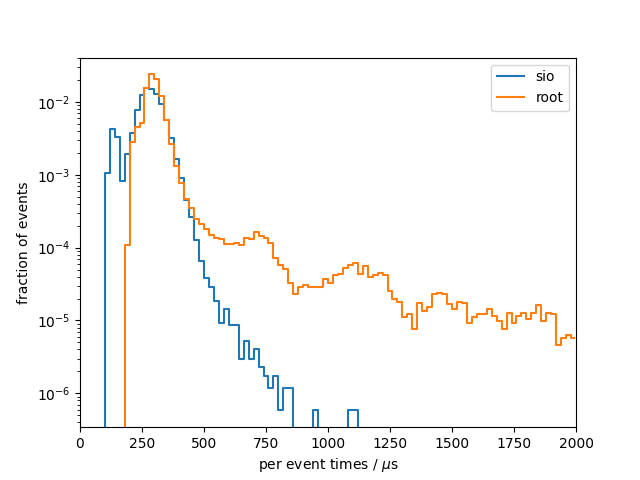
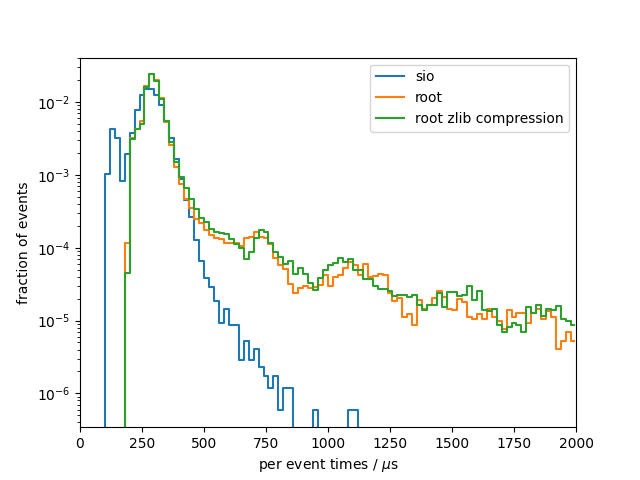
Add a third test case where ROOT uses the same compression

diff --git a/results/k4SimDelphes/run_benchmarks.py b/results/k4SimDelphes/run_benchmarks.py
@@ -92,13 +92,15 @@ def pythia(args):
 
     output_file_base = 'k4simdelphes_pythia_output'
     # prepare output directories for both cases
-    create_case_output_dirs(args.outdir, ['root', 'sio'])
+    # create_case_output_dirs(args.outdir, ['root', 'sio'])
+    create_case_output_dirs(args.outdir, ['root_zlib_compression'])
 
     base_args = [args.card, args.output_config, args.pythia_cmd]
 
     for i in range(args.nruns):
-        for case in ['root', 'sio']:
-            output_file = f'{args.outdir}/{case}/{output_file_base}.{i}.{case}'
+        # for case in ['root', 'sio']:
+        for case in ['root']:
+            output_file = f'{args.outdir}/{case}_zlib_compression/{output_file_base}.{i}.{case}'
             converter_args = base_args + [output_file]
             run_write_read_benchmark(reader, converter_args, output_file, case, i,
                                      args.keep_outputs)
@@ -110,14 +112,16 @@ def stdhep(args):
     reader = 'DelphesSTDHEP_EDM4HEP'
 
     output_file_base = 'k4simdelphes_stdhep_output'
-    create_case_output_dirs(args.outdir, ['root', 'sio'])
+    # create_case_output_dirs(args.outdir, ['root', 'sio'])
+    create_case_output_dirs(args.outdir, ['root_zlib_compression'])
 
 
     base_args = [args.card, args.output_config]
 
     for i in range(args.nruns):
-        for case in ['root', 'sio']:
-            output_file = f'{args.outdir}/{case}/{output_file_base}.{i}.{case}'
+        # for case in ['root', 'sio']:
+        for case in ['root']:
+            output_file = f'{args.outdir}/{case}_zlib_compression/{output_file_base}.{i}.{case}'
             converter_args = base_args + [output_file, args.inputfile]
             run_write_read_benchmark(reader, converter_args, output_file, case, i,
                                      args.keep_outputs)

diff --git a/results/k4SimDelphes/Higgs_recoil_at_ILD/README.md b/results/k4SimDelphes/Higgs_recoil_at_ILD/README.md
@@ -29,21 +29,41 @@ Results from 10 benchmark runs with 17143 events each
 Results from 10 benchmark runs with 17143 events each
 |                          |   min    |   mean   |   max    |
 |--------------------------|----------|----------|----------|
-| total [s]                |    6.814 |    7.340 |    8.072 |
+| total [s]                |    6.833 |    7.372 |    8.072 |
 #### Setup times
 |                          |   min    |   mean   |   max    |
 |--------------------------|----------|----------|----------|
-| total setup [ms]         |    822.5 |    874.4 |    975.2 |
-| constructor [ms]         |    28.59 |    31.88 |    41.44 |
-| finish [ms]              |    787.0 |    842.5 |    946.4 |
+| total setup [ms]         |    824.7 |    876.5 |    975.2 |
+| constructor [ms]         |    28.59 |    31.31 |    41.44 |
+| finish [ms]              |    794.9 |    845.2 |    946.4 |
 #### Per event times
 |                          |   min    |   mean   |   max    |
 |--------------------------|----------|----------|----------|
-| median [us]              |    212.5 |    226.0 |    246.8 |
-| min [us]                 |    143.7 |    148.7 |    155.1 |
-| max [us]                 | 9.39e+05 | 9.85e+05 | 1.07e+06 |
-| 90 percentile [us]       |    272.8 |    331.4 |    470.3 |
-| 99 percentile [us]       |     2738 |     2915 |     3119 |
+| median [us]              |    212.5 |    227.1 |    246.8 |
+| min [us]                 |    143.7 |    149.6 |    155.2 |
+| max [us]                 | 9.39e+05 | 9.88e+05 | 1.07e+06 |
+| 90 percentile [us]       |    273.7 |    333.0 |    470.3 |
+| 99 percentile [us]       |     2732 |     2907 |     3119 |
+
+### root zlib compression
+Results from 10 benchmark runs with 17143 events each
+|                          |   min    |   mean   |   max    |
+|--------------------------|----------|----------|----------|
+| total [s]                |    11.36 |    11.83 |    13.22 |
+#### Setup times
+|                          |   min    |   mean   |   max    |
+|--------------------------|----------|----------|----------|
+| total setup [ms]         |     1153 |     1178 |     1204 |
+| constructor [ms]         |    28.99 |    31.19 |    41.90 |
+| finish [ms]              |     1123 |     1147 |     1173 |
+#### Per event times
+|                          |   min    |   mean   |   max    |
+|--------------------------|----------|----------|----------|
+| median [us]              |    215.9 |    227.7 |    243.5 |
+| min [us]                 |    143.4 |    150.7 |    159.2 |
+| max [us]                 | 2.42e+06 | 2.51e+06 | 2.93e+06 |
+| 90 percentile [us]       |    327.6 |    377.2 |    542.9 |
+| 99 percentile [us]       |     5517 |     5661 |     5850 |
 
 ### per-event comparison plot
 
@@ -61,8 +81,8 @@ Results from 10 benchmark runs with 17143 events each
 |--------------------------|----------|----------|----------|
 | total setup [ms]         |    2.924 |    3.412 |    6.736 |
 | open file [ms]           |    0.573 |    0.640 |    0.888 |
-| close file [us]          |    6.536 |    8.609 |    18.21 |
 | constructor [us]         |     2329 |     2763 |     5838 |
+| close file [us]          |    6.536 |    8.609 |    18.21 |
 | read collection ids [us] |    0.155 |    0.201 |    0.416 |
 #### Per event times
 |                          |   min    |   mean   |   max    |
@@ -77,23 +97,45 @@ Results from 10 benchmark runs with 17143 events each
 Results from 10 benchmark runs with 17143 events each
 |                          |   min    |   mean   |   max    |
 |--------------------------|----------|----------|----------|
-| total [s]                |    6.047 |    6.335 |    6.714 |
+| total [s]                |    6.047 |    6.315 |    6.714 |
 #### Setup times
 |                          |   min    |   mean   |   max    |
 |--------------------------|----------|----------|----------|
-| total setup [ms]         |    202.5 |    215.1 |    255.6 |
-| open file [ms]           |    195.6 |    208.0 |    249.0 |
-| close file [us]          |     6518 |     7159 |     7808 |
-| constructor [us]         |    0.371 |    0.489 |    1.160 |
+| total setup [ms]         |    202.5 |    215.3 |    255.6 |
+| open file [ms]           |    195.6 |    208.1 |    249.0 |
+| constructor [us]         |    0.371 |    0.488 |    1.160 |
+| close file [us]          |     6518 |     7193 |     7808 |
 | read collection ids [us] |    0.387 |    0.426 |    0.499 |
 #### Per event times
 |                          |   min    |   mean   |   max    |
 |--------------------------|----------|----------|----------|
-| median [us]              |    283.5 |    298.1 |    316.7 |
-| min [us]                 |    190.0 |    199.3 |    208.9 |
-| max [us]                 | 3.82e+05 | 3.89e+05 | 4.05e+05 |
-| 90 percentile [us]       |    338.8 |    355.8 |    371.3 |
+| median [us]              |    283.5 |    296.9 |    316.7 |
+| min [us]                 |    190.0 |    197.9 |    208.9 |
+| max [us]                 | 3.81e+05 | 3.89e+05 | 4.05e+05 |
+| 90 percentile [us]       |    338.8 |    354.6 |    371.3 |
 | 99 percentile [us]       |     1012 |     1066 |     1139 |
+
+### root zlib compression
+Results from 10 benchmark runs with 17143 events each
+|                          |   min    |   mean   |   max    |
+|--------------------------|----------|----------|----------|
+| total [s]                |    6.200 |    6.417 |    6.656 |
+#### Setup times
+|                          |   min    |   mean   |   max    |
+|--------------------------|----------|----------|----------|
+| total setup [ms]         |    208.8 |    213.2 |    221.8 |
+| open file [ms]           |    200.7 |    204.7 |    213.4 |
+| constructor [us]         |    0.378 |    0.435 |    0.805 |
+| close file [us]          |     8102 |     8442 |     9379 |
+| read collection ids [us] |    0.406 |    2.249 |    17.14 |
+#### Per event times
+|                          |   min    |   mean   |   max    |
+|--------------------------|----------|----------|----------|
+| median [us]              |    286.9 |    297.5 |    311.0 |
+| min [us]                 |    192.8 |    199.9 |    211.7 |
+| max [us]                 | 4.64e+05 | 4.73e+05 | 4.83e+05 |
+| 90 percentile [us]       |    349.3 |    363.8 |    381.0 |
+| 99 percentile [us]       |     1071 |     1101 |     1137 |
 
 ### per-event comparison plot
 

diff --git a/results/k4SimDelphes/README.md b/results/k4SimDelphes/README.md
@@ -104,3 +104,8 @@ Running this benchmark and generating a report can be done via
     
 python ../../python/make_benchmark_report.py report_config.yaml Higgs_recoil_at_ILD
 ```
+
+### The 'root zlib compression' case
+At the HSF WLCG workshop some results were presented for the benchmarks and
+there we were using the same compression for `sio` and `root`. These have been
+added as the *root zlib compression* case in this example.
